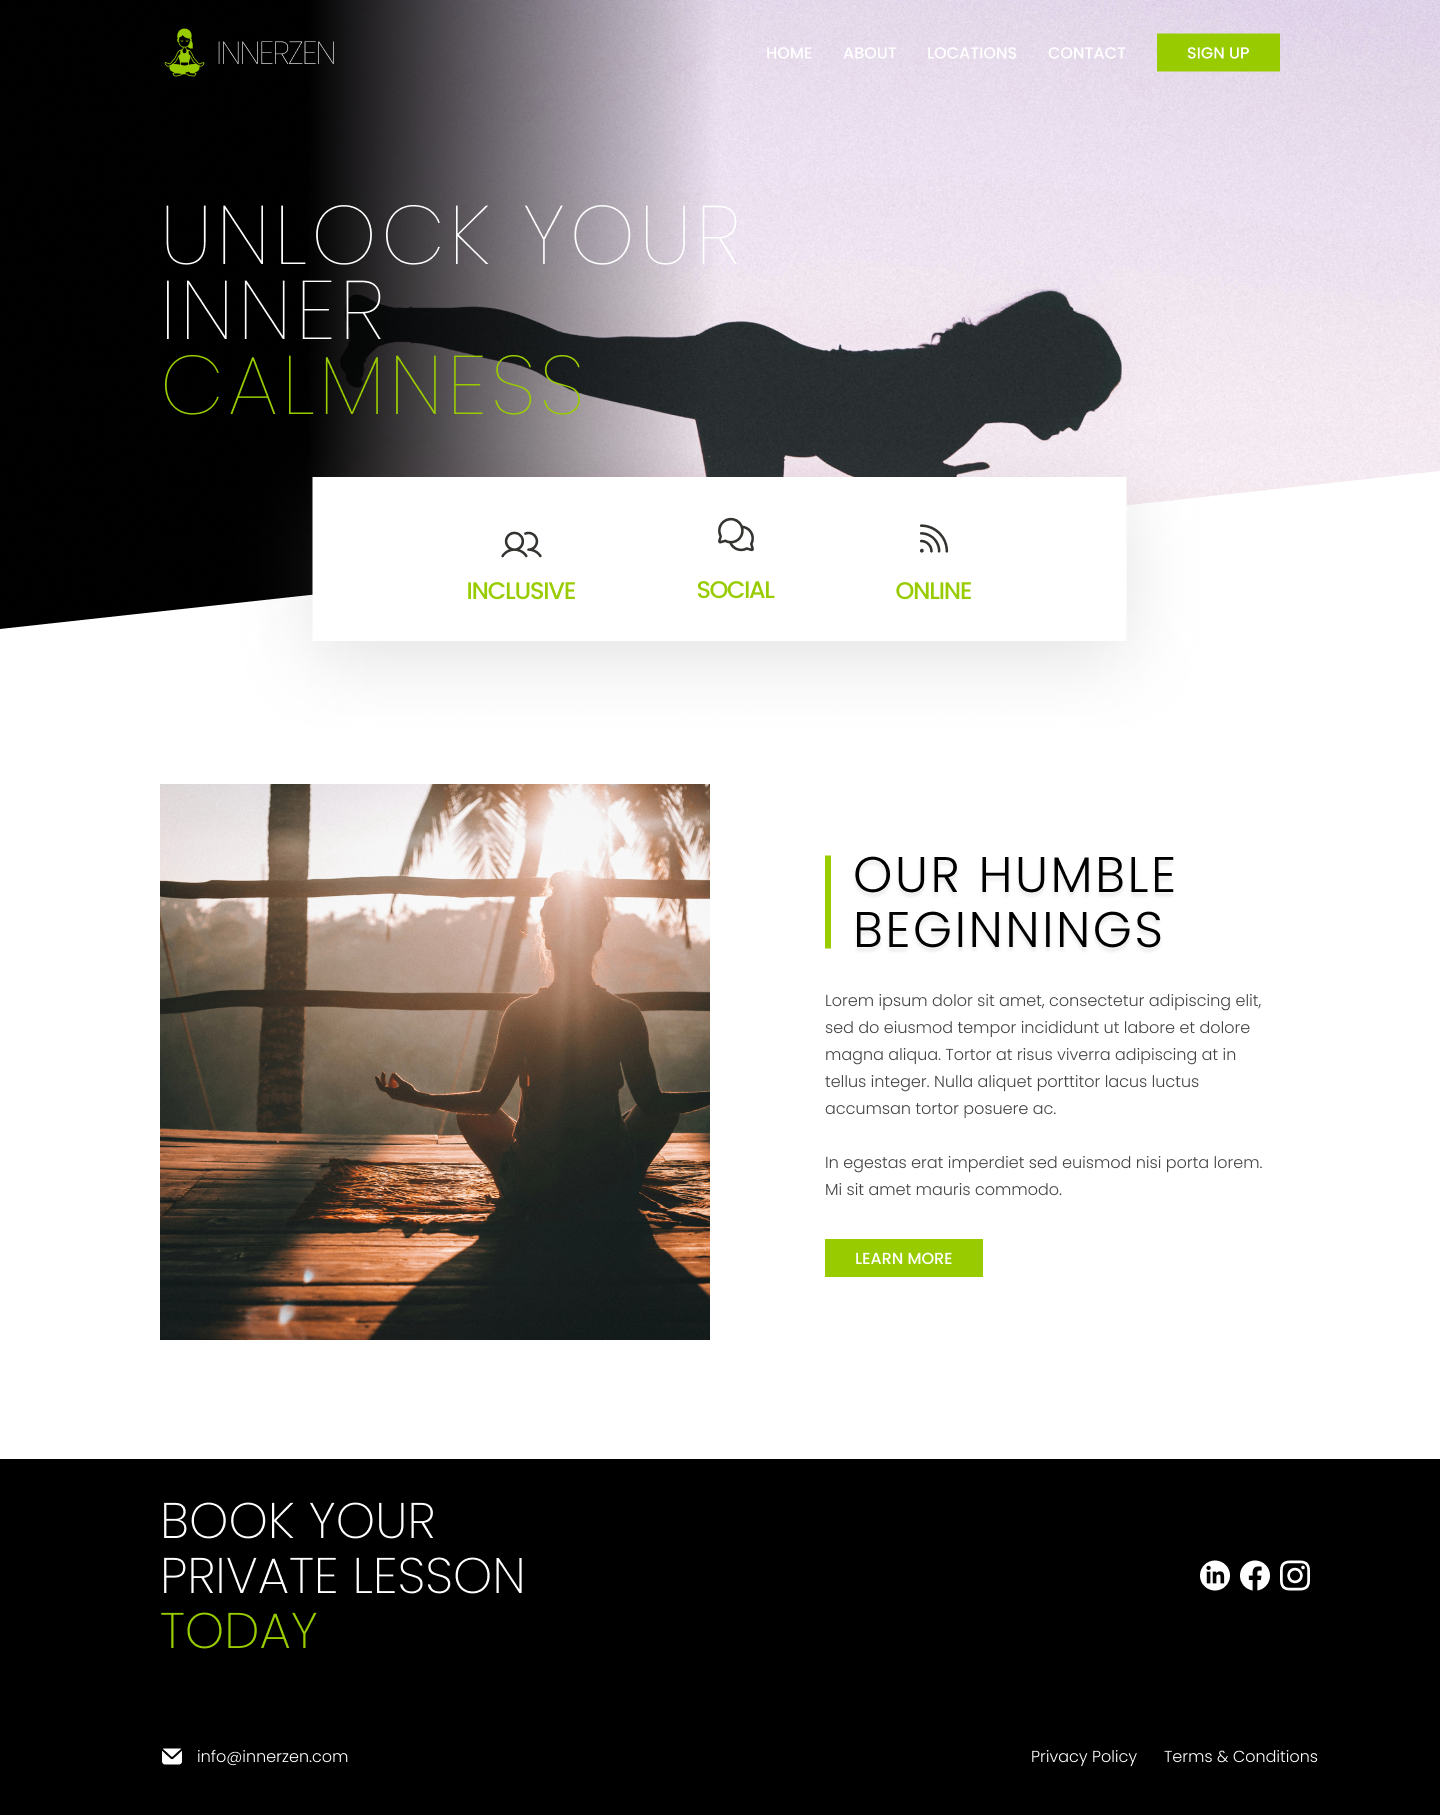
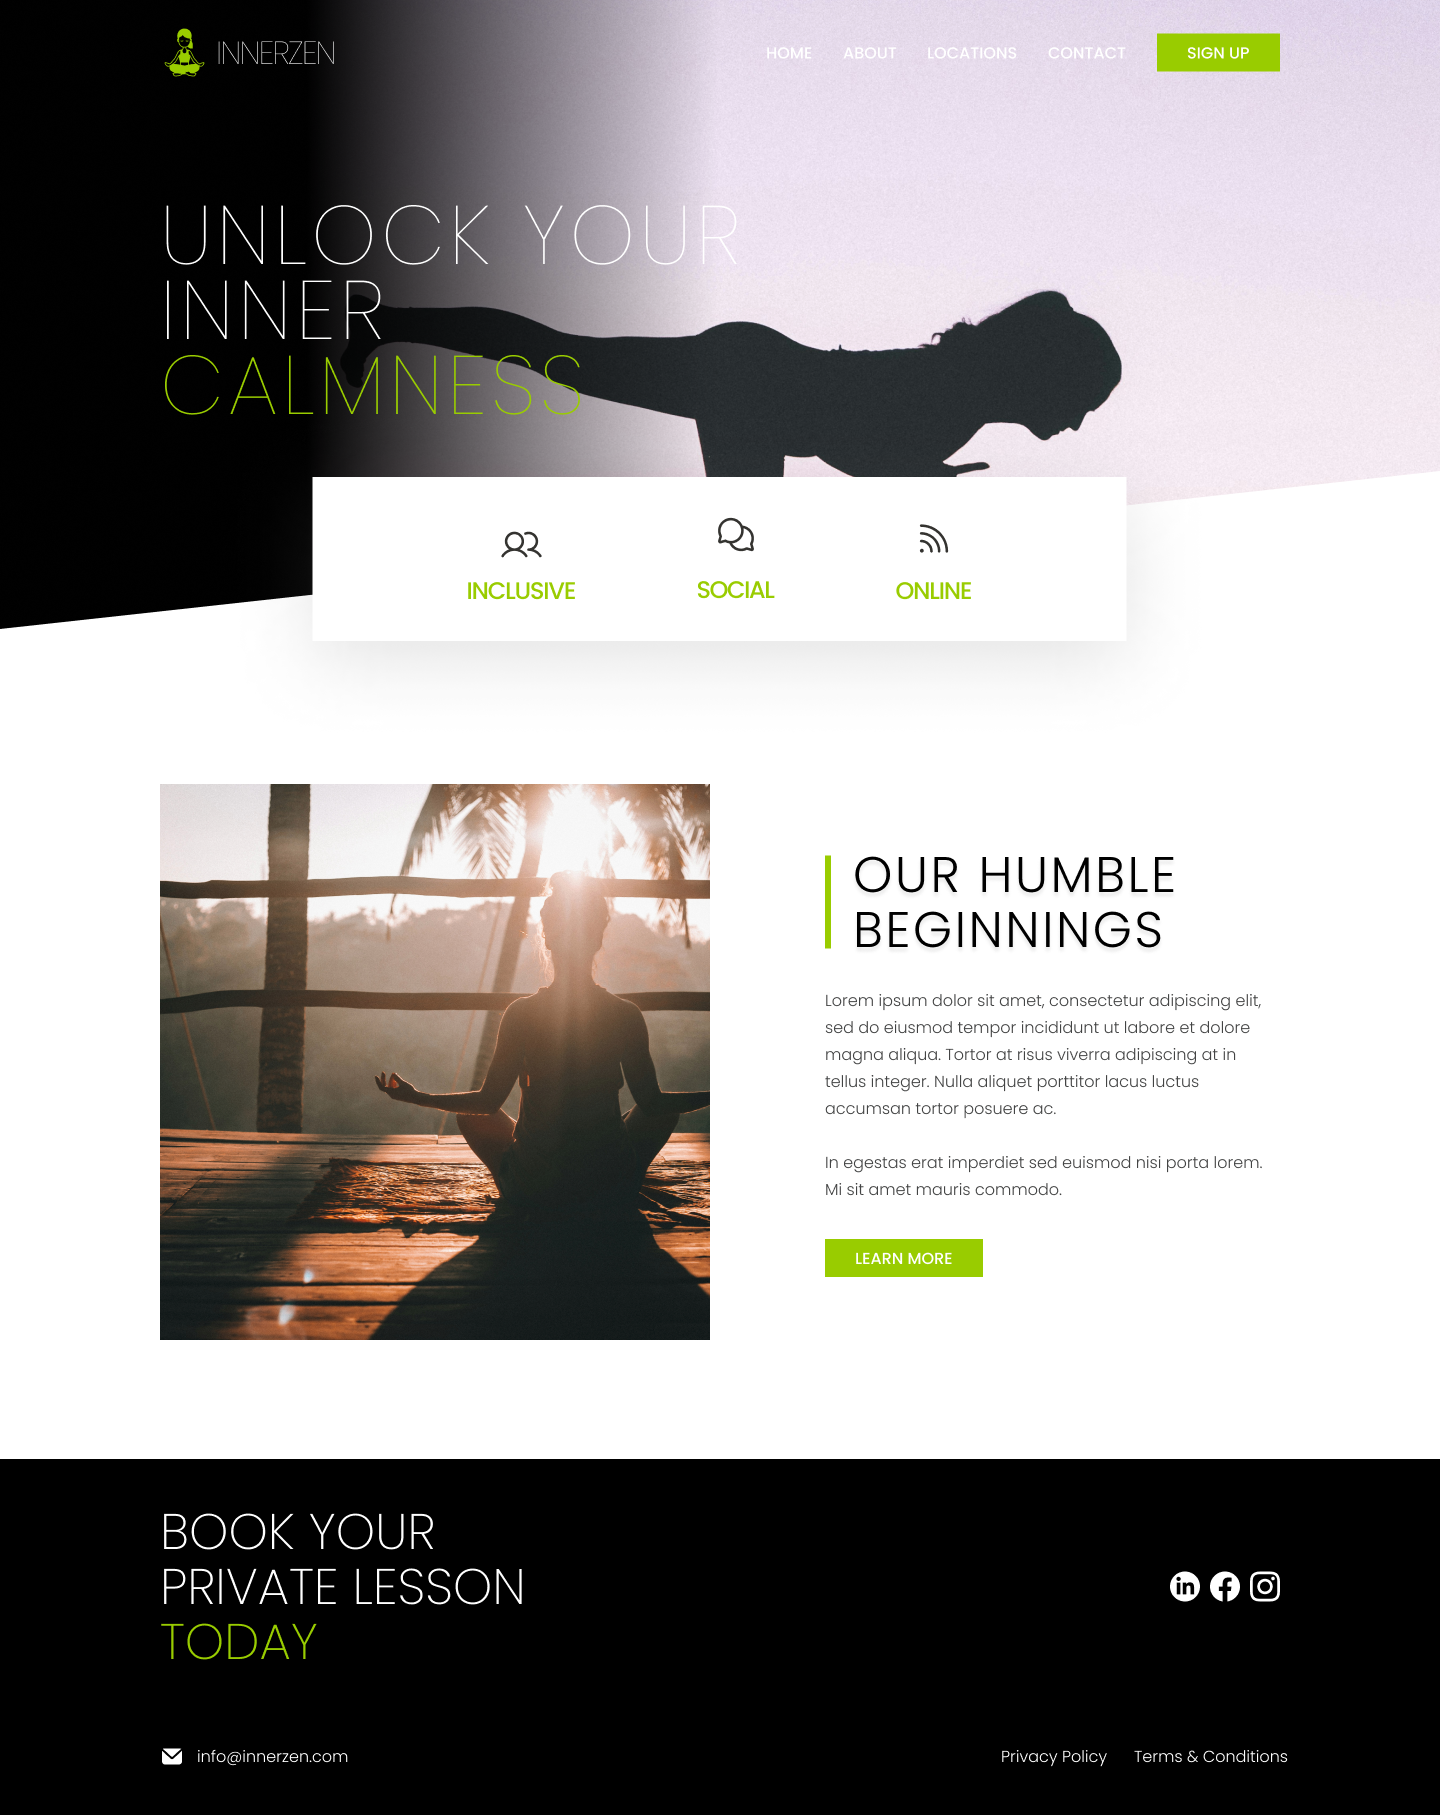
Update Figma Design to make side paddings consistent

diff --git a/htdocs/index.html b/htdocs/index.html
@@ -9,7 +9,7 @@
     <header class="container-fluid">
         <div class="row">
             <div class="col">
-                
+                <img src="assets/img/innerzen-logo.svg" alt="InnerZen Logo">
             </div>
         </div>
     </header>
